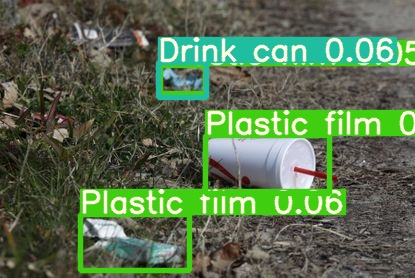
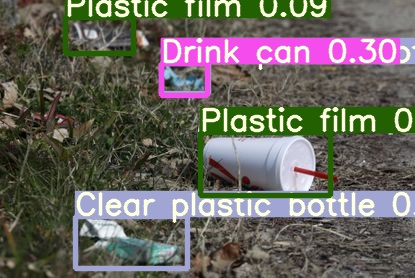
cleaned up code and add comments, add few more test images

Changed region(s): [[0.1735, 0.1151, 1.0, 1.0], [0.1446, 0.0, 0.8096, 0.2302]]

diff --git a/detect.py b/detect.py
@@ -9,7 +9,7 @@ import torchvision
 from torch import nn
 
 from utils.datasets import letterbox
-from utils.general import check_img_size, non_max_suppression, scale_coords, xyxy2xywh
+from utils.general import check_img_size, non_max_suppression, scale_coords
 from utils.plots import plot_one_box
 from utils.torch_utils import time_synchronized
 from models.common import Conv
@@ -34,15 +34,14 @@ def load_model(weight, map_location=None):
     return model
 
 
-def detect(model, test_path, save_dir, save_img=False, names=None):
+def detect(model, test_path, save_dir, save_img=False):
     img_size = 640
     stride = int(model.stride.max())  # model stride
     img_size = check_img_size(img_size, s=stride)  # check img_size
 
-    # Get names and colors
-    if names is None:
-        names = model.module.names if hasattr(model, 'module') else model.names
-
+    # Get names (labels) that the model predicts
+    names = model.module.names if hasattr(model, 'module') else model.names
+    # randomly assign colours to each label
     colors = [[random.randint(0, 255) for _ in range(3)] for _ in names]
 
     # Run inference
@@ -52,33 +51,40 @@ def detect(model, test_path, save_dir, save_img=False, names=None):
     imgs = glob(os.path.join(test_path, "*.jpg"))
     for img_file in imgs:
         # the model takes in RGB
-        im0 = cv2.imread(img_file)
-        img = cv2.imread(img_file)
-        img = cv2.cvtColor(img, cv2.COLOR_BGR2RGB)
+        im0 = cv2.imread(img_file)  # need one that is not modified. This gets used for saving later on as well
+
+        img = cv2.imread(img_file)  # load img used for actual model
+        img = cv2.cvtColor(img, cv2.COLOR_BGR2RGB)  # refer to line 188 pf dataset.py from yolov5 repo
+
         # the resizing technique used by this project
         img = letterbox(img, (img_size, img_size), stride=32)[0]  # using the default values
+
+        # testing with shape 640x640 which is the shape used during training
         # img = cv2.resize(img, (img_size, img_size))
-        # img /= 255.0 # normalization
+
         # change (HxWxC) -> (CxHxW)
-        img_tensor = torchvision.transforms.ToTensor()(
-            img)  # this takes care of normalization as well. I did not know that
-        # img_tensor = img_tensor.half() if half else img_tensor.float()  # uint8 to fp16/32
+        img_tensor = torchvision.transforms.ToTensor()(img)  # this takes care of normalization as well
+        img_tensor = img_tensor.half() if half else img_tensor.float()  # uint8 to fp16/32
+
+        # add dimension for batch if there is not one
         if img_tensor.ndimension() == 3:
             img_tensor = img_tensor.unsqueeze(0)
 
         t1 = time_synchronized()
+
         with torch.no_grad():
             pred = model(img_tensor, augment=False)[0]  # returns y, None
 
-            pred = non_max_suppression(pred, conf_thres=0.05, iou_thres=0.7, classes=None, agnostic=False)
+        # perform NMS on the prediction to get list of detections, on (n,6) tensor per image [xyxy, conf, cls]
+        pred = non_max_suppression(pred, conf_thres=0.08, iou_thres=0.01, classes=None, agnostic=False)
+
         t2 = time_synchronized()
 
         # Process detections
         for i, det in enumerate(pred):  # detections per image
             save_name = img_file.split("/")[-1].split(".")[0] + f"_output_{i}.jpg"
             s = ''
-            s += '%gx%g ' % img_tensor.shape[2:]  # print string
-            gn = torch.tensor(im0.shape)[[1, 0, 1, 0]]  # normalization gain whwh
+            s += f'Shape: {img_tensor.shape[2:]}'  # print string
             if len(det):
                 # Rescale boxes from img_size to im0 size
                 det[:, :4] = scale_coords(img_tensor.shape[2:], det[:, :4], im0.shape).round().detach()
@@ -94,10 +100,8 @@ def detect(model, test_path, save_dir, save_img=False, names=None):
 
                 # Write results
                 for *xyxy, conf, cls in reversed(det):
-                    xywh = (xyxy2xywh(torch.tensor(xyxy).view(1, 4)) / gn).view(-1).tolist()  # normalized xywh
-                    line = (cls, *xywh, conf)
-
-                    if save_img:  # Add bbox to image
+                    if save_img:
+                        # Add bbox to image
                         label = f'{names[int(cls)]} {conf:.2f}'
                         plot_one_box(xyxy, im0, label=label, color=colors[int(cls)], line_thickness=3)
 
@@ -106,7 +110,6 @@ def detect(model, test_path, save_dir, save_img=False, names=None):
             cv2.imwrite(os.path.join(save_dir, save_name), im0)
 
     print(f"Results saved to {save_dir}")
-
     print(f'Done. ({time.time() - t0:.3f}s)')
 
 
@@ -184,4 +187,4 @@ if __name__ == '__main__':
         model.half()  # to FP16
 
     test_path = "test_imgs"
-    detect(model=model, test_path=test_path, save_img=True, save_dir=save_dir, names=None)
+    detect(model=model, test_path=test_path, save_img=True, save_dir=save_dir)
